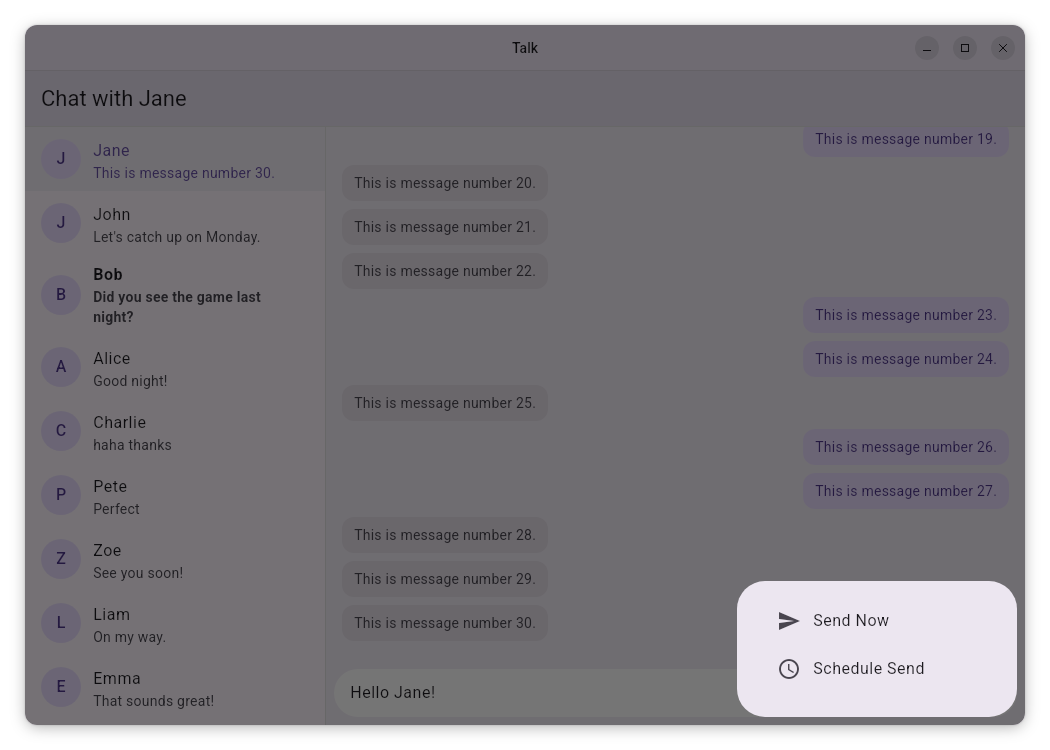
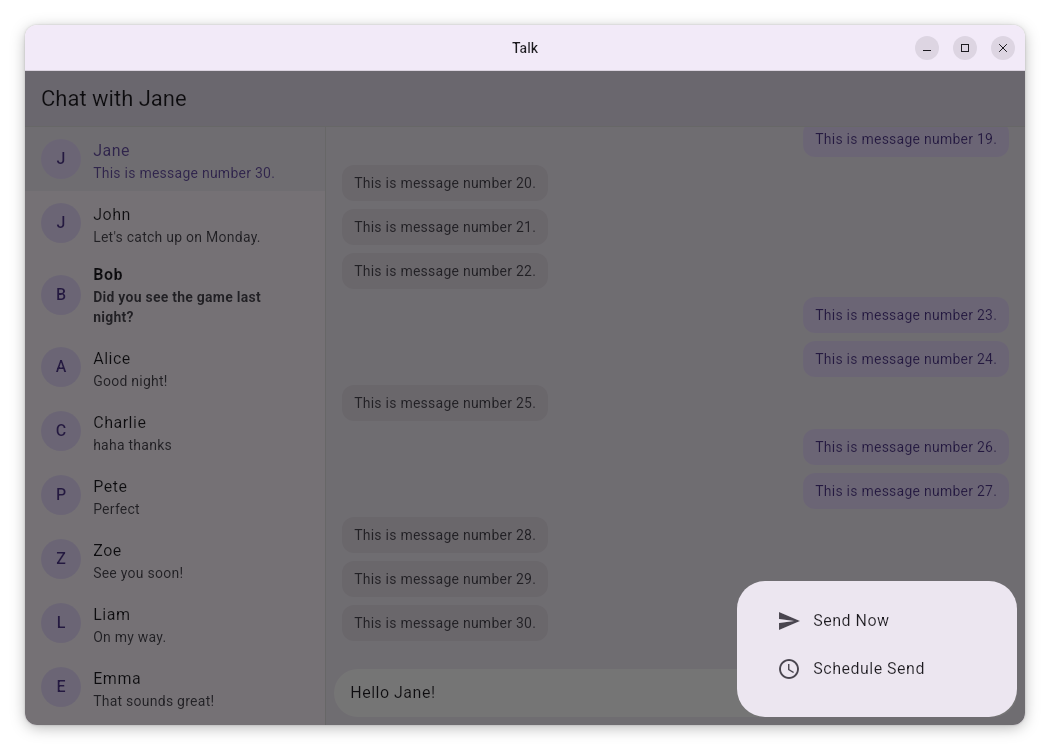
docs: say to use ScreenshotApp.builder for titlebar

Changed region(s): [[0.0, 0.0307, 0.9752, 0.092]]

diff --git a/demo/test/screenshots_test.dart b/demo/test/screenshots_test.dart
@@ -18,11 +18,14 @@ void main() {
       pumpApp: (tester, device) async {
         final app = ScreenshotApp(
           device: device,
-          home: ScreenshotConditionalTitlebar(
-            title: Text('Talk'),
-            device: device,
-            child: DemoHomePage(),
-          ),
+          builder: (context, child) {
+            return ScreenshotConditionalTitlebar(
+              title: Text('Talk'),
+              device: device,
+              child: child!,
+            );
+          },
+          home: DemoHomePage(),
         );
         await tester.pumpWidget(app);
       },
@@ -33,11 +36,14 @@ void main() {
       pumpApp: (tester, device) async {
         final app = ScreenshotApp(
           device: device,
-          home: ScreenshotConditionalTitlebar(
-            title: Text('Talk'),
-            device: device,
-            child: DemoChatPage(userName: 'Jane'),
-          ),
+          builder: (context, child) {
+            return ScreenshotConditionalTitlebar(
+              title: Text('Talk'),
+              device: device,
+              child: child!,
+            );
+          },
+          home: DemoChatPage(userName: 'Jane'),
         );
         await tester.pumpWidget(app);
       },
@@ -48,11 +54,14 @@ void main() {
       pumpApp: (tester, device) async {
         final app = ScreenshotApp(
           device: device,
-          home: ScreenshotConditionalTitlebar(
-            title: Text('Talk'),
-            device: device,
-            child: DemoChatPage(userName: 'Jane'),
-          ),
+          builder: (context, child) {
+            return ScreenshotConditionalTitlebar(
+              title: Text('Talk'),
+              device: device,
+              child: child!,
+            );
+          },
+          home: DemoChatPage(userName: 'Jane'),
         );
         await tester.pumpWidget(app);
 

diff --git a/lib/src/screenshot_titlebar.dart b/lib/src/screenshot_titlebar.dart
@@ -7,15 +7,22 @@ import 'package:yaru/yaru.dart';
 /// For Linux and Windows devices, it shows a titlebar from the Yaru package.
 /// For other platforms, it simply returns [child] without modification.
 ///
+/// It is recommended to use this widget inside the [builder] of [ScreenshotApp]
+/// to ensure that the titlebar isn't affected by dialog backdrops or other
+/// effects.
+///
 /// Example usage:
 /// ```dart
 /// tester.pumpWidget(ScreenshotApp(
-///   device: myDevice,
-///   home: ScreenshotConditionalTitlebar(
-///     title: Text('My App'),
-///     device: myDevice,
-///     child: MyApp(),
-///   ),
+///   device: device,
+///   builder: (context, child) {
+///     return ScreenshotConditionalTitlebar(
+///       title: Text('My App'),
+///       device: myDevice,
+///       child: child!,
+///     );
+///   },
+///   home: MyApp(),
 /// ));
 /// ```
 class ScreenshotConditionalTitlebar extends StatelessWidget {
